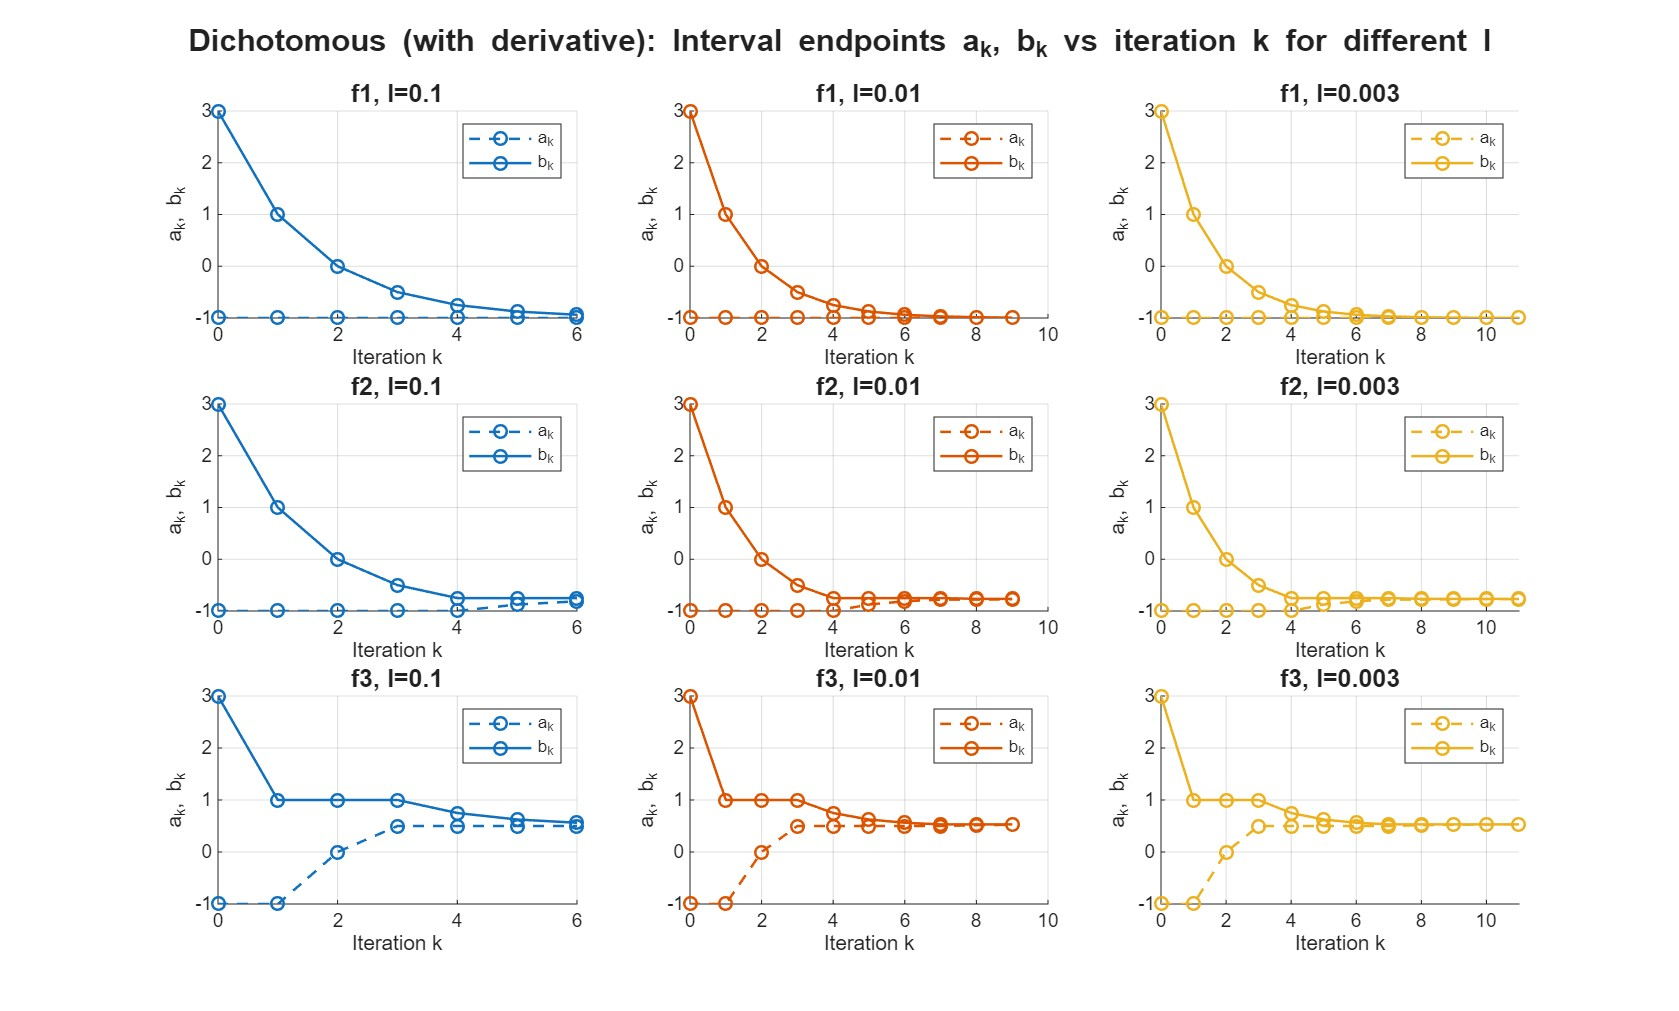
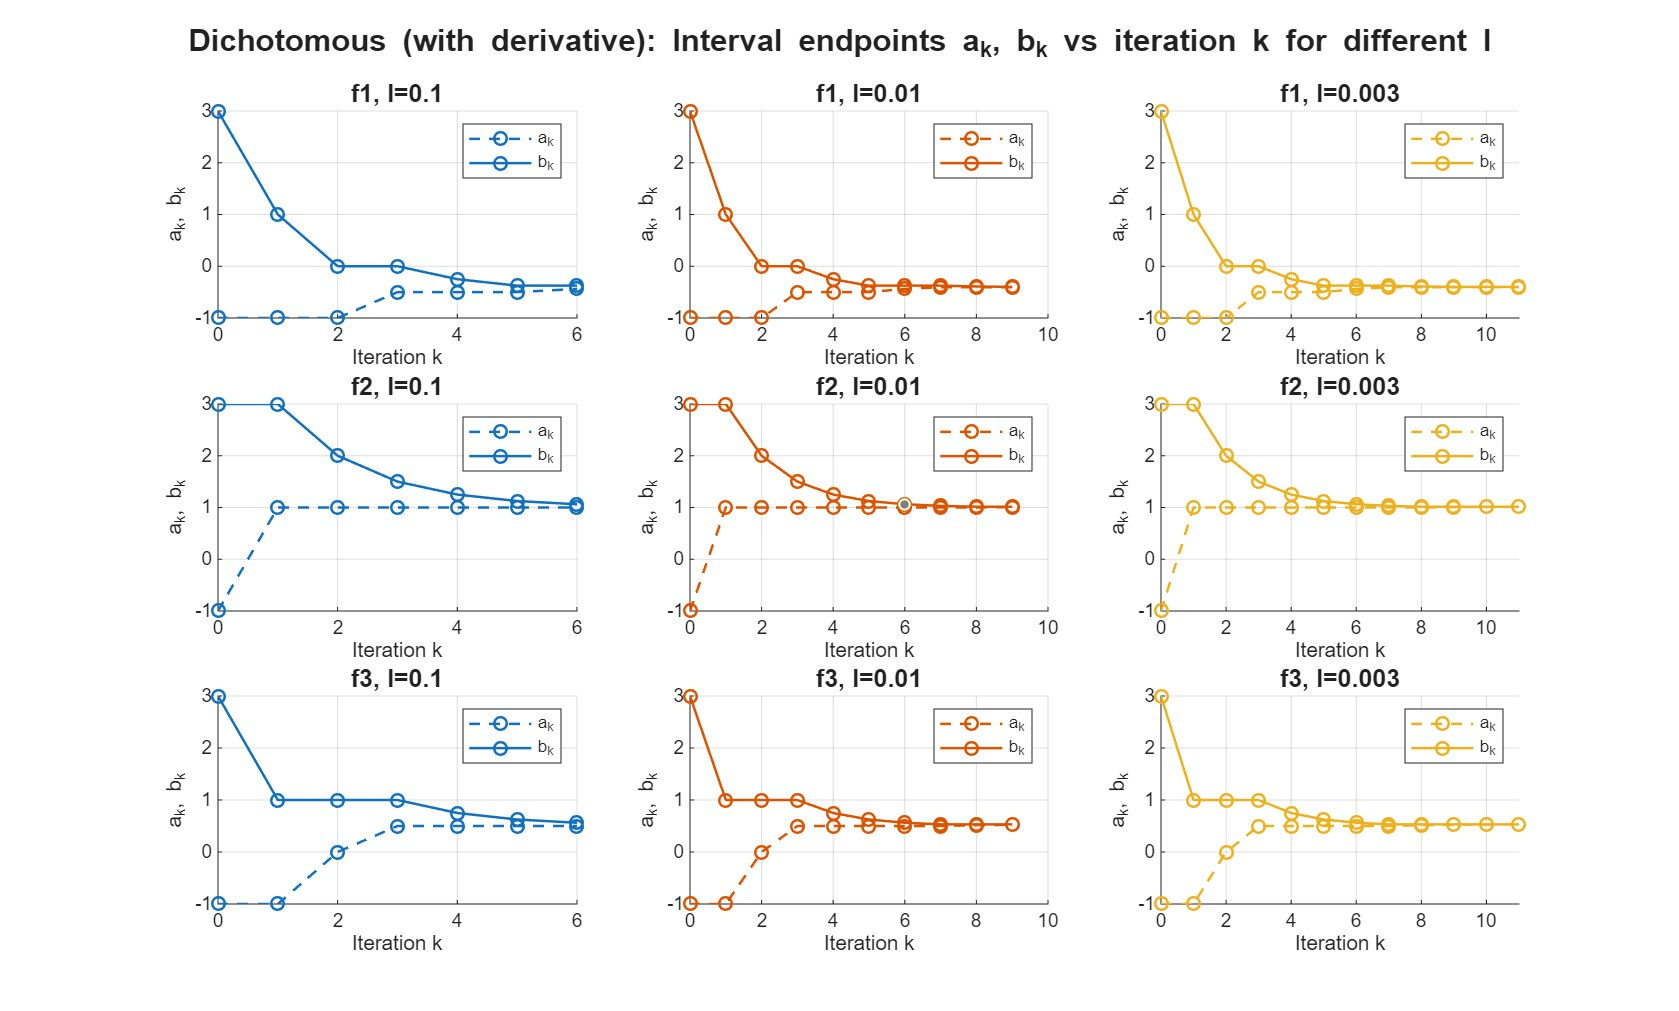
correct objective_functions.m

diff --git a/assignment1/objective_functions.m b/assignment1/objective_functions.m
@@ -1,10 +1,20 @@
-f1 = @(x) 5*x + (2 - cos(x)).^2;
-f2 = @(x) (x - 1).^2 + exp(x) - 5*sin(x+3);
-f3 = @(x) exp(-3*x) - (sin(x-2)-2).^2;
+syms x
 
-df1 = @(x) 5 + 2*(2 - cos(x)).*sin(x);
-df2 = @(x) 2*(x-1) + exp(x) - 5*cos(x+3);
-df3 = @(x) -3*exp(-3*x) - 2*(sin(x-2)-2).*cos(x-2);
+f1_sym = 5^x + (2-cos(x))^2;
+f2_sym = (x-1)^2 + exp(x-5)*sin(x+3);
+f3_sym = exp(-3*x) - (sin(x-2)-2)^2;
+
+df1_sym = diff(f1_sym, x);
+df2_sym = diff(f2_sym, x);
+df3_sym = diff(f3_sym, x);
+
+f1 = matlabFunction(f1_sym);
+f2 = matlabFunction(f2_sym);
+f3 = matlabFunction(f3_sym);
+
+df1 = matlabFunction(df1_sym);
+df2 = matlabFunction(df2_sym);
+df3 = matlabFunction(df3_sym);
 
 funcs = {f1, f2, f3};
 dfuncs = {df1, df2, df3};
